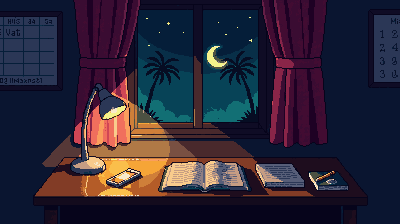
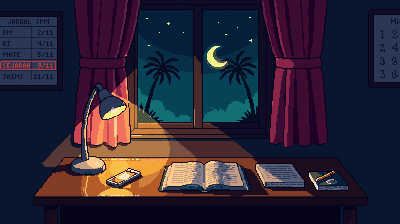
Prologue desk: a real SPM timetable on the wall instead of made-up letters
tools/gen_jadual.py repaints the paper in bg_meja_pov.png with a pixel-font
JADUAL SPM (subject and date), Sejarah ringed in red to match Alif's
"SPM Sejarah. Tiga hari lagi." The hotspot is labelled Jadual SPM.

Changed region(s): [[0.0, 0.0625, 0.15, 0.375]]

diff --git a/tools/gen_jadual.py b/tools/gen_jadual.py
@@ -1,0 +1,97 @@
+"""The SPM timetable on the wall of Alif's desk (bg_meja_pov.png, top left).
+
+The painted one had made-up letters ("HUS 3a 5a"). This repaints its paper
+with a real exam timetable in a 3x5 pixel font: subject and date, Sejarah
+circled in red (Alif: "SPM Sejarah. Tiga hari lagi." - the Kalendar in
+data/prologue_room.json). The left of the frame runs off the picture, so
+everything sits inside the visible paper, x 0-56, y 17-84.
+
+    python tools/gen_jadual.py
+"""
+import pathlib
+
+from PIL import Image
+
+ROOT = pathlib.Path(__file__).resolve().parent.parent
+BG = ROOT / "assets/backgrounds/bg_meja_pov.png"
+PAPER = (0, 17, 57, 85)        # x0, y0, x1, y1 (exclusive) of the visible paper
+PAPER_C = (43, 55, 86)
+INK = (12, 20, 42)
+LINE = (22, 33, 62)
+RED = (196, 58, 58)
+
+ROWS = [("BM", "2/11"), ("BI", "4/11"), ("MATE", "5/11"), ("SEJARAH", "9/11"), ("SAINS", "11/11")]
+MARK = "SEJARAH"
+
+F = {  # 3x5 glyphs, rows top to bottom
+    "A": ["010", "101", "111", "101", "101"], "B": ["110", "101", "110", "101", "110"],
+    "D": ["110", "101", "101", "101", "110"], "E": ["111", "100", "110", "100", "111"],
+    "G": ["011", "100", "101", "101", "011"], "H": ["101", "101", "111", "101", "101"],
+    "I": ["111", "010", "010", "010", "111"], "J": ["001", "001", "001", "101", "010"],
+    "K": ["101", "110", "100", "110", "101"], "L": ["100", "100", "100", "100", "111"],
+    "M": ["10001", "11011", "10101", "10001", "10001"], "N": ["1001", "1101", "1011", "1001", "1001"],
+    "P": ["110", "101", "110", "100", "100"], "R": ["110", "101", "110", "101", "101"],
+    "S": ["011", "100", "010", "001", "110"], "T": ["111", "010", "010", "010", "010"],
+    "U": ["101", "101", "101", "101", "111"],
+    "0": ["111", "101", "101", "101", "111"], "1": ["010", "110", "010", "010", "111"],
+    "2": ["110", "001", "010", "100", "111"], "3": ["110", "001", "010", "001", "110"],
+    "4": ["101", "101", "111", "001", "001"], "5": ["111", "100", "110", "001", "110"],
+    "6": ["011", "100", "111", "101", "111"], "7": ["111", "001", "010", "010", "010"],
+    "8": ["111", "101", "111", "101", "111"], "9": ["111", "101", "111", "001", "110"],
+    "/": ["001", "001", "010", "100", "100"], " ": ["000"] * 5,
+}
+
+
+def text(px, x: int, y: int, s: str, c) -> int:
+    for ch in s:
+        for r, row in enumerate(F[ch]):
+            for k, bit in enumerate(row):
+                if bit == "1":
+                    px[x + k, y + r] = c
+        x += len(F[ch][0]) + 1
+    return x
+
+
+def width(s: str) -> int:
+    return sum(len(F[ch][0]) + 1 for ch in s) - 1
+
+
+def main() -> None:
+    im = Image.open(BG).convert("RGBA")
+    px = im.load()
+    x0, y0, x1, y1 = PAPER
+    for y in range(y0, y1):
+        for x in range(x0, x1):
+            px[x, y] = PAPER_C + (255,)
+    split = 31  # subject | date
+    # title
+    title = "JADUAL SPM"
+    text(px, x0 + (x1 - x0 - width(title)) // 2, y0 + 2, title, INK + (255,))
+    top = y0 + 9
+    for x in range(x0, x1):
+        px[x, top] = INK + (255,)
+    row_h = 11  # text at +3..+7, the red ring at +1 and +9
+    for i, (subj, date) in enumerate(ROWS):
+        ry = top + 1 + i * row_h
+        ink = (RED if subj == MARK else INK) + (255,)
+        text(px, x0 + 3, ry + 3, subj, ink)
+        text(px, x1 - 4 - width(date), ry + 3, date, ink)
+        if i < len(ROWS) - 1:
+            for x in range(x0, x1):
+                px[x, ry + row_h - 1] = LINE + (255,)
+        if subj == MARK:  # a red ring drawn round the row, by hand
+            for x in range(x0 + 1, x1 - 1):
+                px[x, ry + 1] = RED + (255,)
+                px[x, ry + row_h - 2] = RED + (255,)
+            for y in range(ry + 2, ry + row_h - 2):
+                px[x0 + 1 if x0 > 0 else x0, y] = RED + (255,)
+                px[x1 - 2, y] = RED + (255,)
+    for y in range(top + 1, top + row_h * len(ROWS) - 1):
+        if px[split, y][:3] != RED:
+            px[split, y] = LINE + (255,)
+    im.save(BG)
+    print("jadual:", BG)
+
+
+if __name__ == "__main__":
+    main()
